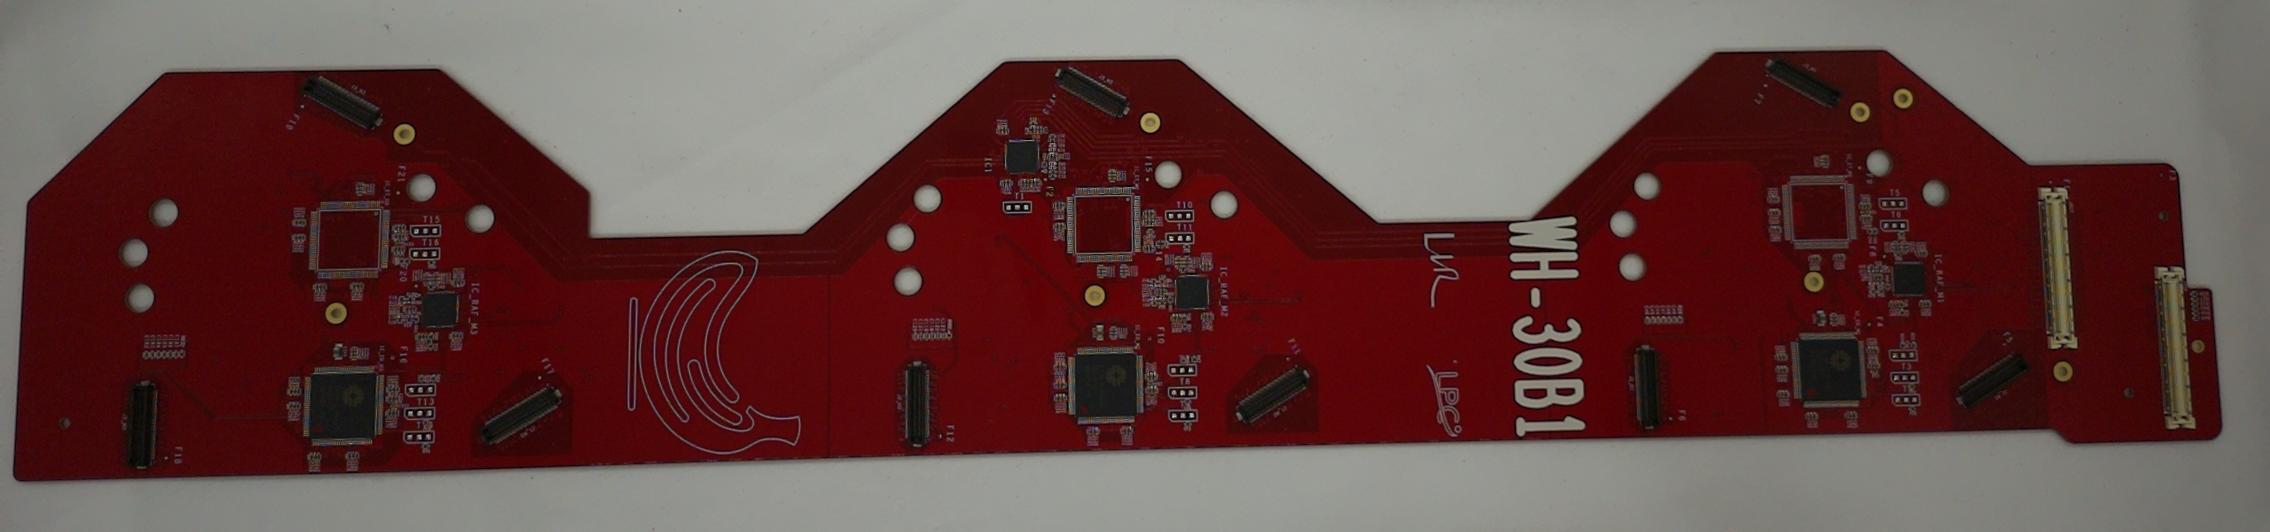
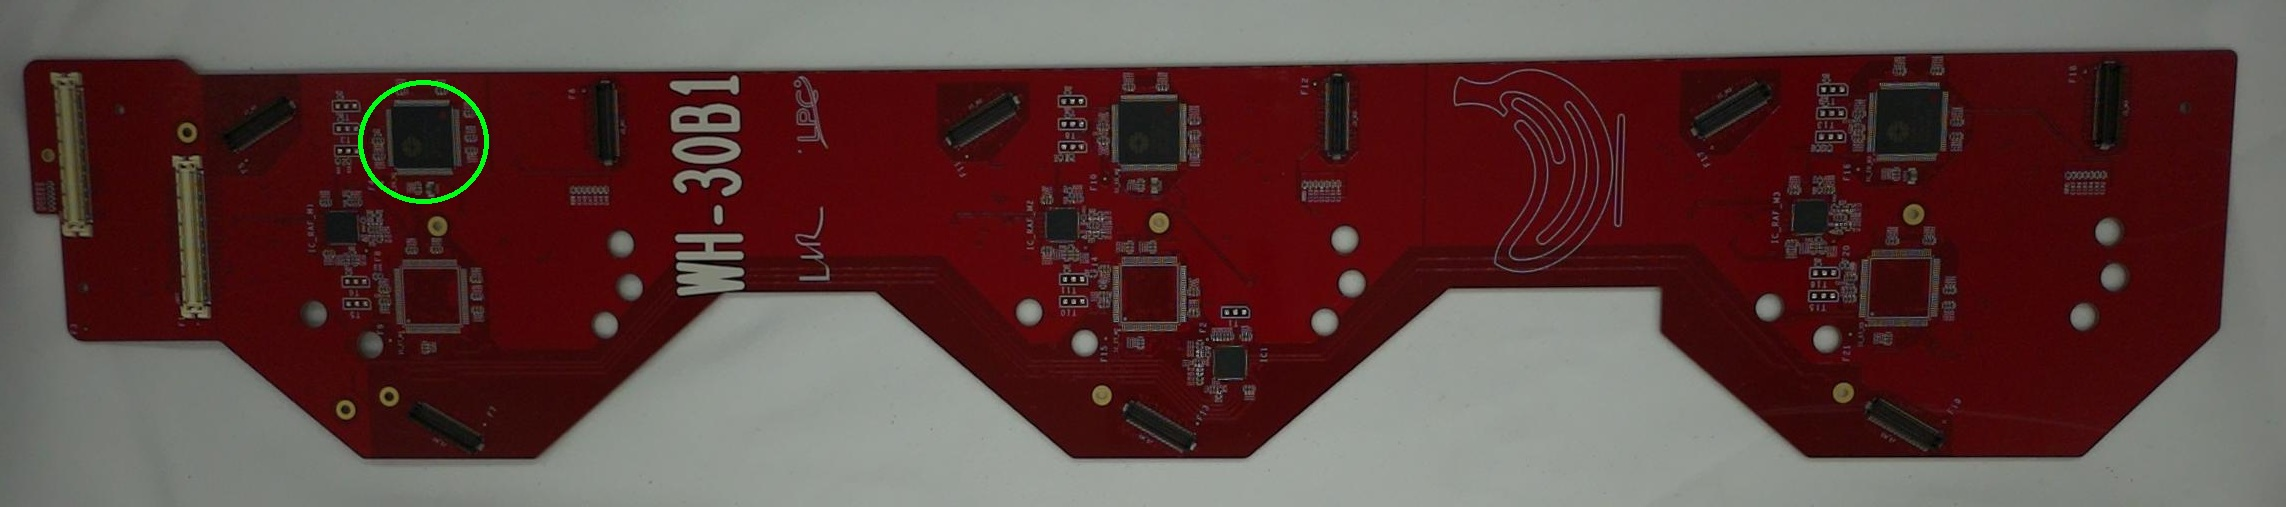
Added rescanning and changed how it uses images.

diff --git a/CheckInGUI/PythonFiles/Scenes/EconScanScene.py b/CheckInGUI/PythonFiles/Scenes/EconScanScene.py
@@ -35,6 +35,7 @@ class EconScanScene(ttk.Frame):
         self.all_scanned = False 
         self.warned = False
         self.last_warnings = []
+        self.is_rescanning = False
 
         self.econ_grade_map = {
             2: {"BA": "BA", "DD": "DD", "FF": "FF"},
@@ -71,7 +72,7 @@ class EconScanScene(ttk.Frame):
     
         # === Grid layout ===
         self.grid_columnconfigure(0, weight=1)  # left panel
-        self.grid_columnconfigure(1, weight=3)  # right panel
+        self.grid_columnconfigure(1, weight=2)  # right panel
         self.grid_rowconfigure(0, weight=1)
     
         # --- Left panel ---
@@ -97,16 +98,6 @@ class EconScanScene(ttk.Frame):
         )
         self.scanned_entry.grid(row=1, column=0, sticky="ew", pady=(0, 20))
     
-        # Bind Enter key to submit typed value
-        # self.scanned_entry.bind("<Return>", lambda event: self.manual_next_component())
-    
-        # Trace changes to update dictionary in real time
-        def _on_scanned_entry_change(*args):
-            if self.current_index < len(self.component_config):
-                component_name = self.component_config[self.current_index]["name"]
-                self.scanned_components[component_name] = self.scanned_label_var.get()
-        self.scanned_label_var.trace_add("write", _on_scanned_entry_change)
-    
         # Next button (manual input)
         self.btn_next = ttk.Button(
             self.left_panel, text="Next", command=self.manual_next_component
@@ -131,6 +122,23 @@ class EconScanScene(ttk.Frame):
             self.left_buttons_frame, text="Submit", command=lambda: self.btn_submit_action(parent), state="disabled"
         )
         self.btn_submit.grid(row=0, column=1, sticky="ew", padx=5)
+   
+        #Rescan dropbox/button
+        self.rescan_frame = ttk.Frame(self.left_panel)
+        self.rescan_frame.grid(row=2, column=0, sticky="ew", pady=(0, 10))
+        self.rescan_frame.grid_columnconfigure(0, weight=1)
+        self.rescan_frame.grid_remove()
+        
+        self.btn_rescan = ttk.Button(
+            self.rescan_frame, text="Rescan Selected", command=self.rescan_component
+        )
+        self.btn_rescan.grid(row=0, column=0, sticky="ew", pady=(0, 5))
+        
+        self.rescan_var = tk.StringVar()
+        self.rescan_dropdown = ttk.Combobox(
+            self.rescan_frame, textvariable=self.rescan_var, state="readonly", font=("Arial", 14)
+        )
+        self.rescan_dropdown.grid(row=1, column=0, sticky="ew")
     
         # Logout button
         self.btn_logout = ttk.Button(
@@ -145,59 +153,34 @@ class EconScanScene(ttk.Frame):
             command=lambda: self.help_action(parent)
         )
         self.btn_help.grid(row=0, column=3, sticky="ew", padx=5)
-    
-        # --- Right panel ---
+       
+
+        # Right panel
         self.right_panel = ttk.Frame(self)
         self.right_panel.grid(column=1, row=0, sticky="nsew", padx=10, pady=10)
-        self.right_panel.grid_rowconfigure(0, weight=3)  # board image
-        self.right_panel.grid_rowconfigure(1, weight=1)  # component image
-        self.right_panel.grid_columnconfigure(0, weight=1)
-    
-        # Board image (top)
+        
         self.board_frame = ttk.Frame(self.right_panel)
-        self.board_frame.grid(row=0, column=0, sticky="nsew")
-        self.board_frame.grid_rowconfigure(0, weight=1)
-        self.board_frame.grid_columnconfigure(0, weight=1)
+        self.board_frame.pack(expand=True, fill="both")
+        
         self.lbl_board = ttk.Label(self.board_frame)
-        self.lbl_board.grid(row=0, column=0, sticky="nsew")
-    
-        # Component image (bottom)
-        self.location_img_label = ttk.Label(self.right_panel)
-        self.location_img_label.grid(row=1, column=0, sticky="nsew", pady=10)
-    
-        # Prevent grid from shrinking widgets
-        self.grid_propagate(False)
-
-    ################################################
+        self.lbl_board.pack(expand=True)
 
     def update_component_prompt(self):
         if not self.component_config:
             # No board loaded yet
             self.lbl_progress["text"] = "No board selected"
-            self.location_img_label.configure(image=None)
             self.scanned_label_var.set("Not scanned")
             return
             
         component = self.component_config[self.current_index]
-
+        
         self.lbl_progress["text"] = (
             f"Scan component {self.current_index + 1} of {len(self.component_config)}\n"
             f"{component['name']}"
         )
 
         self.scanned_label_var.set("")
-
-        MAX_LOC_WIDTH = 200
-        MAX_LOC_HEIGHT = 200
-        try:
-            comp_img_path = Path(__file__).parent.parent / f'Data/{component["image"]}'
-            img = Image.open(comp_img_path)
-            img.thumbnail((MAX_LOC_WIDTH, MAX_LOC_HEIGHT), Image.Resampling.LANCZOS)
-            photo = iTK.PhotoImage(img)
-            self.location_img_label.configure(image=photo)
-            self.location_img_label.image = photo
-        except:
-            print(f'No image {component["image"]}.')
+        self.get_component_image()
 
     ################################################
 
@@ -253,7 +236,6 @@ class EconScanScene(ttk.Frame):
 
     def on_all_components_scanned(self):
         self.check_grade() 
-        #print(self.results)
         output_str = "All components scanned.\n"
         self.scanned_label_var.set("")
 
@@ -263,7 +245,7 @@ class EconScanScene(ttk.Frame):
         output_str += self.comments
         if not self.passed_test:
             output_str += "\nPlease finish checking in board.\nThen, place in failed bin and notify an expert."
-         
+        
         self.info_dict = {
             "full_id": self.full_board_id,
             "tester": self.data_holder.data_dict['user_ID'], 
@@ -273,10 +255,33 @@ class EconScanScene(ttk.Frame):
 
         self.scanned_entry.grid_remove() 
         self.btn_next.grid_remove()
+        
+        component_names = [c["name"] for c in self.component_config]
+        self.rescan_dropdown["values"] = component_names
+        self.rescan_var.set(component_names[0])
+        self.rescan_frame.grid()
 
         self.lbl_progress["text"] = output_str
         self.btn_submit["state"] = "active"
         self.all_scanned = True
+
+    def rescan_component(self):
+        selected = self.rescan_var.get()
+        if not selected:
+            return
+    
+        component_names = [c["name"] for c in self.component_config]
+        self.current_index = component_names.index(selected)
+        self.is_rescanning = True
+    
+        self.rescan_frame.grid_remove()
+        self.btn_submit["state"] = "disabled"
+        self.all_scanned = False
+        self.scanned_entry.grid()
+        self.btn_next.grid()
+    
+        self.update_component_prompt()
+        self.scan_QR_code()
 
     #################################################
 
@@ -299,6 +304,8 @@ class EconScanScene(ttk.Frame):
         self.passed_test = True
         self.all_scanned = False 
         self.warned = False
+        self.last_warnings = []
+        self.is_rescanning = False
 
         if self.data_holder.data_dict['prev_results'] != '':
             self.data_holder.check_if_new_board()
@@ -309,6 +316,7 @@ class EconScanScene(ttk.Frame):
 
         self.scanned_entry.grid() 
         self.btn_next.grid()
+        self.rescan_frame.grid_remove()
 
         self.EXIT_CODE = 0
 
@@ -329,9 +337,12 @@ class EconScanScene(ttk.Frame):
         self.passed_test = True
         self.all_scanned = False
         self.warned = False
+        self.last_warnings = []
+        self.is_rescanning = False
 
         self.scanned_entry.grid() 
         self.btn_next.grid()
+        self.rescan_frame.grid_remove()
 
         _parent.set_frame_login_frame()
         self.EXIT_CODE = 0
@@ -352,9 +363,12 @@ class EconScanScene(ttk.Frame):
         self.passed_test = True
         self.all_scanned = False
         self.warned = False
+        self.last_warnings = []
+        self.is_rescanning = False
 
         self.scanned_entry.grid() 
         self.btn_next.grid()
+        self.rescan_frame.grid_remove()
 
         _parent.set_frame_scan_frame()
         self.EXIT_CODE = 0
@@ -371,8 +385,13 @@ class EconScanScene(ttk.Frame):
         self.board_id = self.full_board_id[3:9]
         if self.board_id not in self.boards_config:
             raise ValueError(f"Board ID {board_id} not found in config")
-        board_data = self.boards_config[self.board_id]
-        self.board_image_path = board_data['board_image']
+        self.component_config = self.boards_config[self.board_id]['components']
+        self.current_index = 0
+        self.scanned_components = {}
+        self.update_component_prompt()
+    
+    def get_component_image(self):
+        self.board_image_path = self.boards_config[self.board_id]['components'][self.current_index]['image']
         try:
             self.board_image_path = Path(__file__).parent.parent / f'Data/{self.board_image_path}'
             if hasattr(self, 'lbl_board'):
@@ -380,45 +399,27 @@ class EconScanScene(ttk.Frame):
         except:
             print(f"No image {self.board_image_path}")
             pass
-        self.component_config = board_data['components']
-    
-        self.current_index = 0
-        self.scanned_components = {}
-    
-        self.update_component_prompt()
 
     def load_and_scale_board_image(self, image_path):
-        self.board_frame.update_idletasks() 
-        frame_width = self.board_frame.winfo_width()
-        frame_height = self.board_frame.winfo_height()
-    
-        # If not ready yet, try again shortly
-        if frame_width <= 1 or frame_height <= 1:
-            self.after(50, lambda: self.load_and_scale_board_image(image_path))
-            return
-    
         img = Image.open(image_path)
-    
-        # Calculate scale factor to fit inside frame while keeping aspect ratio
-        img_ratio = img.width / img.height
-        frame_ratio = frame_width / frame_height
-    
-        if img_ratio > frame_ratio:
-            new_width = frame_width
-            new_height = int(frame_width / img_ratio)
-        else:
-            new_height = frame_height
-            new_width = int(frame_height * img_ratio)
         
-        new_width = max(100, new_width)
-        new_height = max(100, new_height)
-
+        target_width, target_height = 650, 879
+        img_ratio = img.width / img.height
+        target_ratio = target_width / target_height
+        
+        if img_ratio > target_ratio:
+            new_width = target_width
+            new_height = int(target_width / img_ratio)
+        else:
+            new_height = target_height
+            new_width = int(target_height * img_ratio)
+        
         img = img.resize((new_width, new_height), Image.Resampling.LANCZOS)
         photo = iTK.PhotoImage(img)
-    
-        # Update label
-        self.lbl_board.configure(image=photo)
+
+        self.lbl_board.config(image=photo)
         self.lbl_board.image = photo
+        self.board_frame.update()
 
     def manual_next_component(self):
         value = self.scanned_label_var.get().strip()
@@ -460,7 +461,10 @@ class EconScanScene(ttk.Frame):
             time.sleep(2)
     
         self.current_index += 1
-        if self.current_index < len(self.component_config):
+        if self.is_rescanning:
+            self.is_rescanning = False
+            self.on_all_components_scanned()
+        elif self.current_index < len(self.component_config):
             self.update_component_prompt()
             self.scan_QR_code()
         else:
@@ -470,6 +474,7 @@ class EconScanScene(ttk.Frame):
         num_modules = int(self.full_board_id[5])+int(self.full_board_id[6])
         correct_grades = self.full_board_id[9:11] 
         self.passed_test = True
+        self.comments = []
 
         for key, value in self.scanned_components.items():
             self.results[key] = {"full_id": value, "Passed": True}
@@ -495,7 +500,6 @@ class EconScanScene(ttk.Frame):
             if warnings is not None:
                 self.comments.append(warnings)
 
-        print(self.comments)
         self.passed_test = all(r["Passed"] for r in self.results.values())
         self.comments = "All grades correct." if self.passed_test else "\n".join(self.comments)
 
